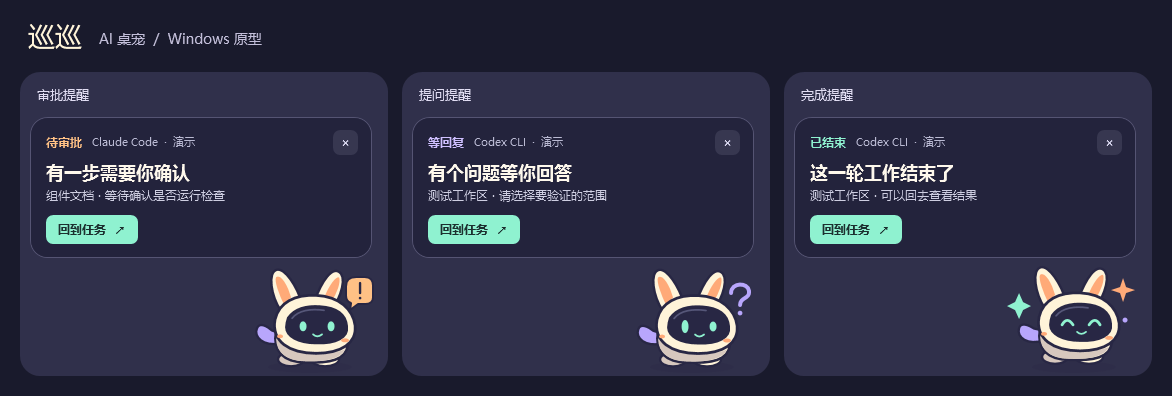
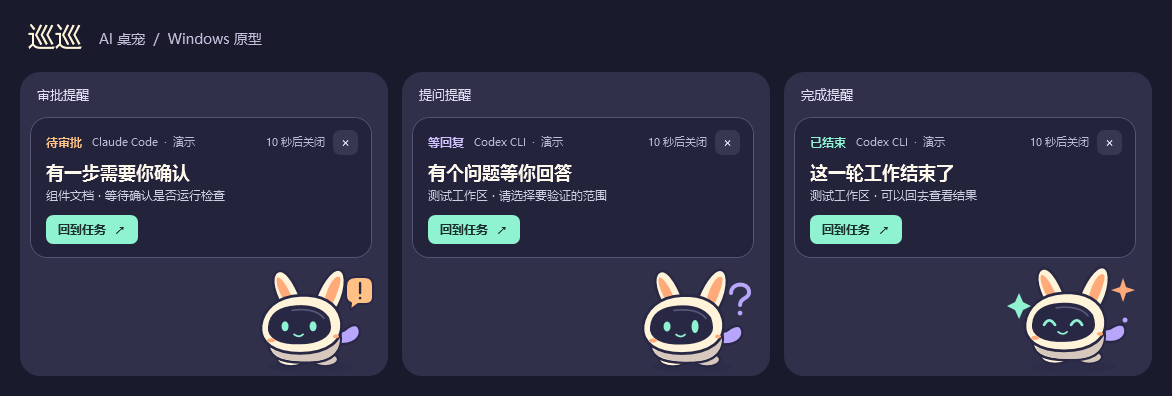
Roam on launch and close reminders after ten seconds

diff --git a/src/PetWindow.cs b/src/PetWindow.cs
@@ -23,11 +23,13 @@ sealed class PetWindow : Window
     private readonly ScaleTransform petScale = new(1, 1, 70, 73);
     private const double AnchorX = 288;
     private const double AnchorY = 219;
+    private const int NoticeDurationSeconds = 10;
     private readonly Border card;
     private readonly Border playTray;
     private readonly Button napButton;
     private readonly TextBlock category = Label("", 12, "#FFC185", true);
     private readonly TextBlock source = Label("", 11, "#BABAD3");
+    private readonly TextBlock countdown = Label("", 11, "#BABAD3");
     private readonly TextBlock headline = Label("", 18, "#FEF8EC", true);
     private readonly TextBlock detail = Label("", 12, "#CECEE1");
     private readonly Button open = Action("回到任务  ↗", true);
@@ -39,6 +41,8 @@ sealed class PetWindow : Window
     private readonly System.Drawing.Icon? trayImage;
     private static readonly Uri IconResource = new("pack://application:,,,/Assets/xunxun.ico");
     private Notice? current;
+    private double? noticeClosesAt;
+    private int countdownSeconds;
     private int selection;
     private bool quiet;
     private double playingSince;
@@ -100,6 +104,10 @@ sealed class PetWindow : Window
         close.Click += (_, _) => Dismiss();
         DockPanel.SetDock(close, Dock.Right);
         top.Children.Add(close);
+        countdown.Margin = new Thickness(0, 0, 8, 0);
+        countdown.VerticalAlignment = VerticalAlignment.Center;
+        DockPanel.SetDock(countdown, Dock.Right);
+        top.Children.Add(countdown);
         top.Children.Add(category);
         source.Margin = new Thickness(10, 0, 0, 0);
         source.VerticalAlignment = VerticalAlignment.Center;
@@ -286,11 +294,19 @@ sealed class PetWindow : Window
     {
         var pending = sessions.Values.OrderBy(pair => pair.Seen).Select(pair => pair.Item)
             .Where(item => item.Mood is Mood.Approval or Mood.Question or Mood.Done).ToArray();
+        var previous = current;
         current = pending.Length == 0 ? null : pending[selection % pending.Length];
         var mood = current?.Mood ?? (sessions.Count == 0 ? Mood.Roam : Mood.Working);
         pet.Mood = quiet && current is not null ? Mood.Roam : mood;
         pet.InvalidateVisual();
         card.Visibility = quiet || current is null ? Visibility.Collapsed : Visibility.Visible;
+        if (card.Visibility != Visibility.Visible)
+            noticeClosesAt = null;
+        else if (noticeClosesAt is null || current != previous)
+        {
+            noticeClosesAt = clock.Elapsed.TotalSeconds + NoticeDurationSeconds;
+            SetCountdown(NoticeDurationSeconds);
+        }
         if (card.Visibility == Visibility.Visible && IsVisible)
         {
             var area = workArea;
@@ -333,6 +349,12 @@ sealed class PetWindow : Window
     private void Animate()
     {
         double elapsed = clock.Elapsed.TotalSeconds;
+        if (noticeClosesAt is { } deadline)
+        {
+            int remaining = (int)Math.Ceiling(deadline - elapsed);
+            if (remaining <= 0) Dismiss();
+            else SetCountdown(remaining);
+        }
         double frame = Math.Clamp(elapsed - lastFrame, 0, 0.075);
         lastFrame = elapsed;
         pet.Time = elapsed;
@@ -352,6 +374,13 @@ sealed class PetWindow : Window
             .Select(pair => pair.Key).ToArray();
         foreach (var key in expired) sessions.Remove(key);
         if (expired.Length != 0) Refresh();
+    }
+
+    private void SetCountdown(int seconds)
+    {
+        if (countdownSeconds == seconds) return;
+        countdownSeconds = seconds;
+        countdown.Text = $"{seconds} 秒后关闭";
     }
 
     internal Point ScreenAnchor => PointToScreen(new Point(AnchorX, AnchorY));
@@ -463,7 +492,8 @@ sealed class PetWindow : Window
         if (!canRoam)
         {
             // Keep the hit area stable under the cursor during an interaction.
-            if (pet.Mood != Mood.Roam) ResizePet(1, frame);
+            if (!pet.IsMouseCaptured && !dragging && !pet.IsMouseOver && !playTray.IsMouseOver)
+                ResizePet(DesktopRoam.ScaleFor(position, position, icons), frame);
             return;
         }
 

diff --git a/src/Program.cs b/src/Program.cs
@@ -36,7 +36,7 @@ static class Program
         _ = T3Completion.Watch(item => window.Dispatcher.InvokeAsync(() => window.Receive(item)), shutdown.Token);
         app.Exit += (_, _) => shutdown.Cancel();
         window.Show();
-        if (!Array.Exists(args, arg => arg == "--live")) window.StartDemo();
+        if (Array.IndexOf(args, "--demo") >= 0) window.StartDemo();
         return app.Run();
     }
 

diff --git a/README.md b/README.md
@@ -1,8 +1,8 @@
 # 巡巡 · Windows 桌宠原型
 
-在 Windows 上按文末命令构建后，双击 `release\XunXun.exe` 即可启动。这个 x64 单文件版需要 .NET 9 Desktop Runtime。
+在 Windows 上按文末命令构建后，双击 `release\XunXun.exe` 即可开始漫游并监听已配置的任务提醒。这个 x64 单文件版需要 .NET 9 Desktop Runtime。
 
-1. 巡巡先在屏幕右下角敲电脑，约两秒后举起审批提示。
+1. 右键巡巡或托盘图标，选择 **播放三段演示**。巡巡会敲电脑，约两秒后举起模拟审批提示。也可以用 `--demo` 启动演示。
 2. 点击 **回到任务**，打开对应的模拟任务窗口。窗口里的 **下一段演示** 会依次展示提问和完成。点击气泡右上角的 × 也可以进入下一段。
 3. 演示结束后巡巡会随机游走，偶尔停一下，也会挑相邻屏幕当目的地。遇到单个图标时，路线允许就轻轻绕一下。图标密集时会缩小，继续沿自己的方向散步。右键宠物或托盘图标，可以重播、切换免打扰或退出。
 
@@ -17,9 +17,11 @@
 
 [三种提醒预览](preview/xunxun-preview.png)由原型界面直接渲染。演示窗口、动作和工作区名称都是模拟数据。
 
+每条提醒显示 10 秒倒计时，到时自动收起。多条提醒依次显示。
+
 ## 接入本机 CLI
 
-关闭正在演示的实例后，以 `Start-Process .\release\XunXun.exe -ArgumentList '--live'` 启动纯监听模式。下列操作从原型根目录运行。生成的样例包含当前可执行文件的绝对路径，移动程序后重新生成。
+双击 `release\XunXun.exe` 可开始监听。下列操作从原型根目录运行。生成的样例包含当前可执行文件的绝对路径，移动程序后重新生成。
 
 ```powershell
 .\adapters\New-HookExamples.ps1
